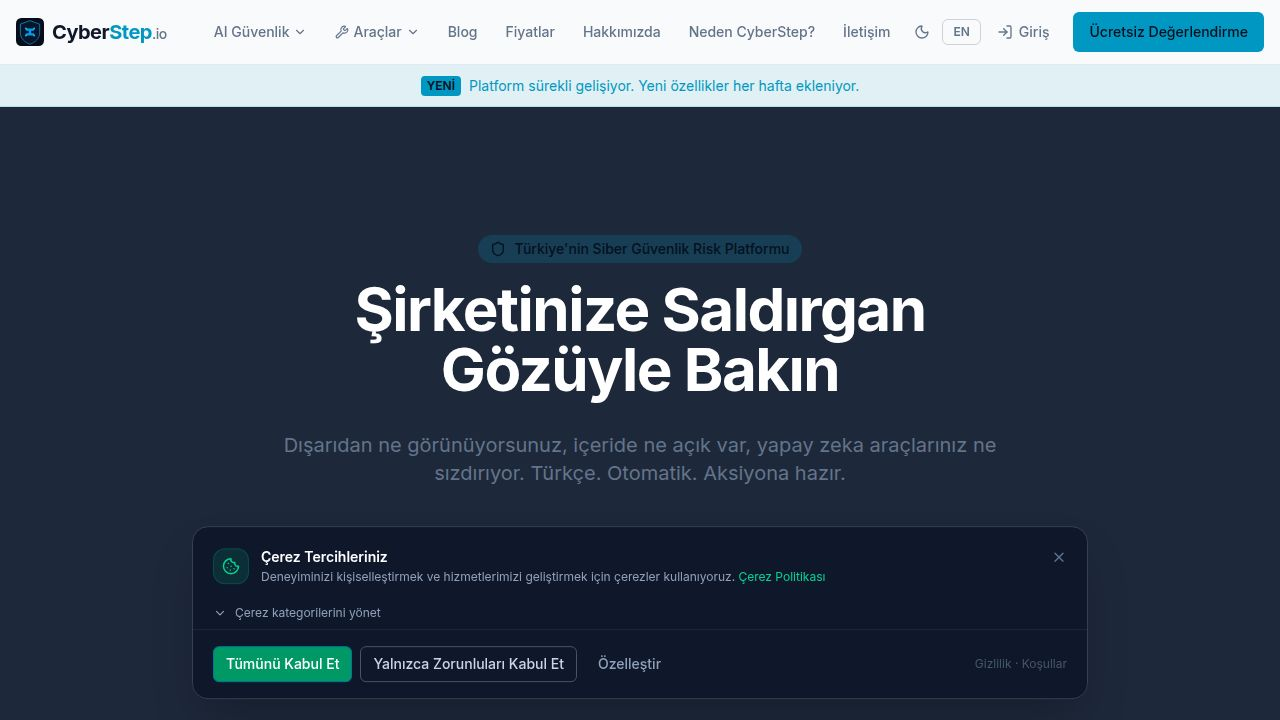
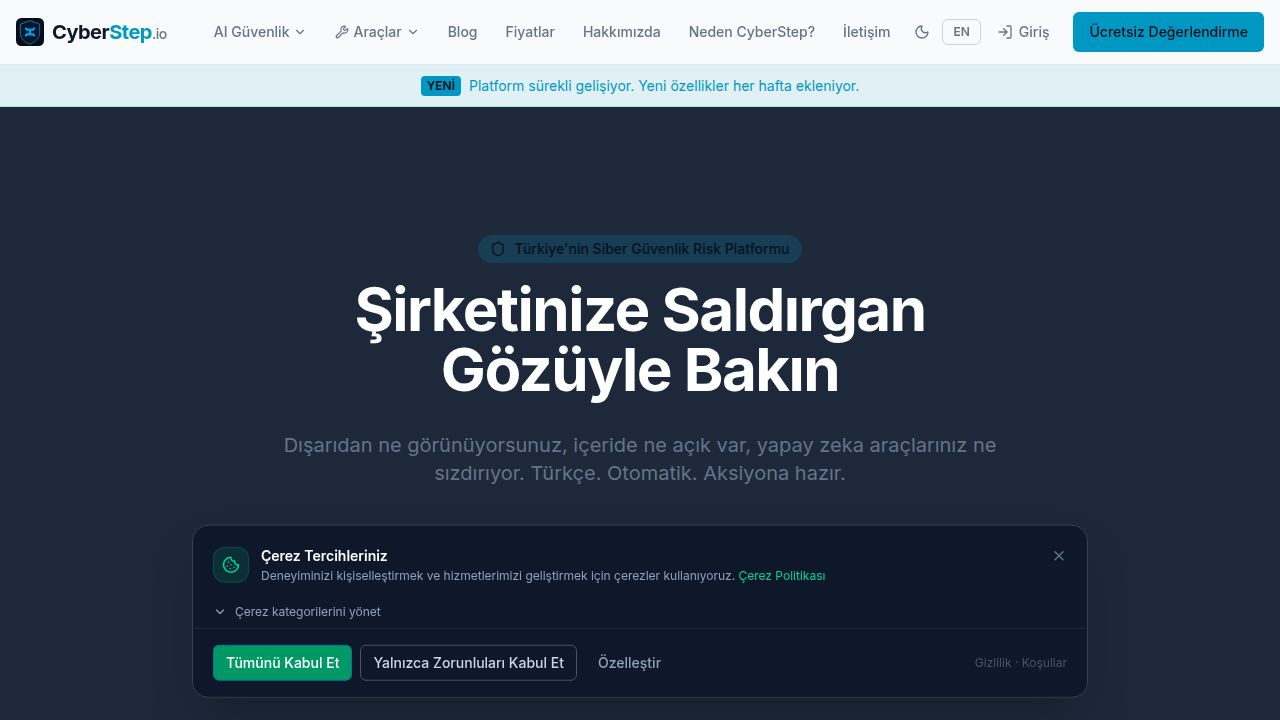
feat: ServiceNow bağlantı durumunu müşteri entegrasyon sayfasında canlı göster
Task: Musteri entegrasyon sayfasinda ServiceNow baglanti durumunu canli goster

## Yapılan değişiklikler

### Backend — yeni `/check` endpoint'i
- `artifacts/api-server/src/routes/integrations/servicenow.ts`
  - POST /api/integrations/servicenow/check eklendi
  - Müşterinin kayıtlı kimlik bilgilerini DB'den çekip testServiceNowConnection çağırır
  - Başarılı testte last_sync_at güncellenir, last_sync_error temizlenir
  - Başarısız testte last_sync_error güncellenir
  - requireCustomer middleware ile korunuyor

### Frontend — sağlık badge + hata bloğu + test butonu
- `artifacts/cyberstep/src/pages/hesabim/entegrasyonlarim.tsx`
  - ServiceNow kartı artık lastSyncError varlığına göre dinamik badge gösteriyor:
    - "Bağlantı Sağlıklı" (yeşil) — hata yoksa
    - "Bağlantı Hatası" (kırmızı) — lastSyncError varsa
  - Hata durumunda kırmızı hata bloğu ile hata özeti + son başarılı sync tarihi görünür
  - "Bağlantıyı Test Et" butonu eklendi — yeni /check endpoint'ini çağırır
  - Test sonucu anında satır içi gösterilir (yeşil/kırmızı), card cache invalidate edilir
  - checking + checkResult state yönetimi eklendi

## Deviasyonlar
Yok — task tam olarak tanımlandığı gibi implemente edildi.

Replit-Task-Id: fe56266e-2c17-4b03-a798-6196eb5eb416

Changed region(s): [[0.1562, 0.7639, 0.6562, 0.8556], [0.1562, 0.8861, 0.4375, 0.9472], [0.4688, 0.9167, 0.5312, 0.9472]]

diff --git a/artifacts/cyberstep/src/pages/hesabim/entegrasyonlarim.tsx b/artifacts/cyberstep/src/pages/hesabim/entegrasyonlarim.tsx
@@ -422,6 +422,8 @@ function ServiceNowSection() {
   const [showForm, setShowForm] = useState(false);
   const [form, setForm] = useState({ instanceUrl: "", username: "", apiToken: "", assignmentGroup: "", category: "Software" });
   const [testing, setTesting] = useState(false);
+  const [checking, setChecking] = useState(false);
+  const [checkResult, setCheckResult] = useState<{ ok: boolean; message: string } | null>(null);
   const [newSecret, setNewSecret] = useState<string | null>(null);
   const [copiedSecret, setCopiedSecret] = useState(false);
   const [copiedUrl, setCopiedUrl] = useState(false);
@@ -517,6 +519,26 @@ function ServiceNowSection() {
     }
   }
 
+  async function checkConnection() {
+    setChecking(true);
+    setCheckResult(null);
+    try {
+      const r = await fetch("/api/integrations/servicenow/check", {
+        method: "POST",
+        credentials: "include",
+      });
+      const d = await r.json() as { ok: boolean; message: string };
+      setCheckResult(d);
+      qc.invalidateQueries({ queryKey: ["sn-config"] });
+      if (d.ok) toast({ title: "Bağlantı sağlıklı", description: "ServiceNow'a başarıyla bağlanıldı." });
+      else toast({ title: "Bağlantı hatası", description: d.message, variant: "destructive" });
+    } catch {
+      toast({ title: "Test başarısız", variant: "destructive" });
+    } finally {
+      setChecking(false);
+    }
+  }
+
   function timeSince(iso: string | null) {
     if (!iso) return "-";
     const diff = Date.now() - new Date(iso).getTime();
@@ -557,26 +579,72 @@ function ServiceNowSection() {
         ) : cfg?.active ? (
           <>
             <div className="border border-gray-800 rounded-lg p-4 space-y-3">
-              <div className="flex items-start justify-between">
-                <div>
-                  <div className="flex items-center gap-2">
+              <div className="flex items-start justify-between gap-3">
+                <div className="flex-1 min-w-0">
+                  <div className="flex items-center gap-2 flex-wrap">
                     <p className="text-sm font-medium text-white">ServiceNow Bağlantısı</p>
-                    <Badge className="bg-emerald-500/20 text-emerald-400 border-emerald-500/30 text-[10px]">Aktif</Badge>
+                    {cfg.lastSyncError ? (
+                      <Badge className="bg-red-500/20 text-red-400 border-red-500/30 text-[10px] border">
+                        Baglanti Hatasi
+                      </Badge>
+                    ) : (
+                      <Badge className="bg-emerald-500/20 text-emerald-400 border-emerald-500/30 text-[10px] border">
+                        Baglanti Saglikli
+                      </Badge>
+                    )}
                   </div>
                   <code className="text-[11px] text-violet-400 block mt-1">{cfg.instanceUrl}</code>
                   <p className="text-xs text-gray-500 mt-1 flex items-center gap-1">
                     <Clock className="h-3 w-3" />
-                    Son sync: {timeSince(cfg.lastSyncAt)}
+                    Son basarili sync: {timeSince(cfg.lastSyncAt)}
                     {cfg.assignmentGroup ? ` · Grup: ${cfg.assignmentGroup}` : ""}
                   </p>
-                  {cfg.lastSyncError && (
-                    <p className="text-xs text-red-400 mt-1 flex items-center gap-1">
-                      <AlertTriangle className="h-3 w-3" />
-                      {cfg.lastSyncError.slice(0, 80)}
+                </div>
+                <Button
+                  size="sm"
+                  variant="outline"
+                  onClick={checkConnection}
+                  disabled={checking}
+                  className="border-violet-500/30 text-violet-400 hover:text-violet-300 h-8 shrink-0"
+                >
+                  {checking ? (
+                    <Loader2 className="h-3.5 w-3.5 mr-1 animate-spin" />
+                  ) : (
+                    <RefreshCw className="h-3.5 w-3.5 mr-1" />
+                  )}
+                  Baglantiyi Test Et
+                </Button>
+              </div>
+
+              {/* Error block */}
+              {cfg.lastSyncError && (
+                <div className="border border-red-500/20 bg-red-500/5 rounded p-3 space-y-1">
+                  <p className="text-xs text-red-400 font-medium flex items-center gap-1">
+                    <AlertTriangle className="h-3.5 w-3.5 shrink-0" />
+                    Son Hata
+                  </p>
+                  <p className="text-[11px] text-red-400/80 break-words">{cfg.lastSyncError.slice(0, 200)}</p>
+                  {cfg.lastSyncAt && (
+                    <p className="text-[11px] text-gray-500 flex items-center gap-1 mt-1">
+                      <Clock className="h-3 w-3" />
+                      Son basarili sync: {timeSince(cfg.lastSyncAt)}
                     </p>
                   )}
                 </div>
-              </div>
+              )}
+
+              {/* Inline check result feedback */}
+              {checkResult && (
+                <div className={`border rounded p-2.5 text-xs flex items-center gap-2 ${checkResult.ok ? "border-emerald-500/20 bg-emerald-950/20 text-emerald-400" : "border-red-500/20 bg-red-950/20 text-red-400"}`}>
+                  {checkResult.ok ? (
+                    <CheckCircle className="h-3.5 w-3.5 shrink-0" />
+                  ) : (
+                    <AlertTriangle className="h-3.5 w-3.5 shrink-0" />
+                  )}
+                  {checkResult.ok ? "Baglanti basarili — ServiceNow erisilebilir durumda." : checkResult.message.slice(0, 150)}
+                </div>
+              )}
+
               <div className="grid grid-cols-3 gap-2 text-center">
                 {[
                   { label: "Kategori", value: cfg.category ?? "Software" },

diff --git a/artifacts/api-server/src/routes/integrations/servicenow.ts b/artifacts/api-server/src/routes/integrations/servicenow.ts
@@ -266,6 +266,61 @@ router.get("/integrations/servicenow/webhook-info", requireCustomer, async (req,
   }
 });
 
+// ─── POST /api/integrations/servicenow/check ──────────────────────────────────
+// Tests the stored credentials for the current customer and updates sync status.
+router.post("/integrations/servicenow/check", requireCustomer, async (req, res) => {
+  const customerId = getCustomerId(req);
+  if (!customerId) { res.status(401).json({ error: "Oturum gerekli" }); return; }
+
+  try {
+    const { rows } = await pool.query<{
+      id: number; instance_url: string; username: string; api_token_enc: string;
+    }>(
+      `SELECT id, instance_url, username, api_token_enc
+       FROM servicenow_configs
+       WHERE customer_id = $1 AND active = true
+       LIMIT 1`,
+      [customerId],
+    );
+    const row = rows[0];
+    if (!row) {
+      res.status(404).json({ ok: false, message: "ServiceNow entegrasyonu bulunamadı" });
+      return;
+    }
+
+    const { decryptSecret } = await import("../../services/fabric-crypto");
+    const password = decryptSecret(row.api_token_enc);
+    if (!password) {
+      res.status(500).json({ ok: false, message: "Kimlik bilgileri çözümlenemedi" });
+      return;
+    }
+
+    const result = await testServiceNowConnection({
+      instanceUrl: row.instance_url,
+      username: row.username,
+      password,
+    });
+
+    if (result.ok) {
+      await pool.query(
+        `UPDATE servicenow_configs SET last_sync_at = NOW(), last_sync_error = NULL WHERE id = $1`,
+        [row.id],
+      );
+    } else {
+      await pool.query(
+        `UPDATE servicenow_configs SET last_sync_error = $1 WHERE id = $2`,
+        [result.message.slice(0, 500), row.id],
+      );
+    }
+
+    req.log.info({ customerId, ok: result.ok }, "ServiceNow bağlantı testi yapıldı");
+    res.json(result);
+  } catch (err) {
+    req.log.error({ err }, "POST /api/integrations/servicenow/check error");
+    res.status(500).json({ ok: false, message: "Sunucu hatası" });
+  }
+});
+
 // ─── POST /api/integrations/servicenow/webhook-secret ─────────────────────────
 // Generates (or rotates) the HMAC webhook secret. Returns plaintext ONCE.
 router.post("/integrations/servicenow/webhook-secret", requireCustomer, async (req, res) => {